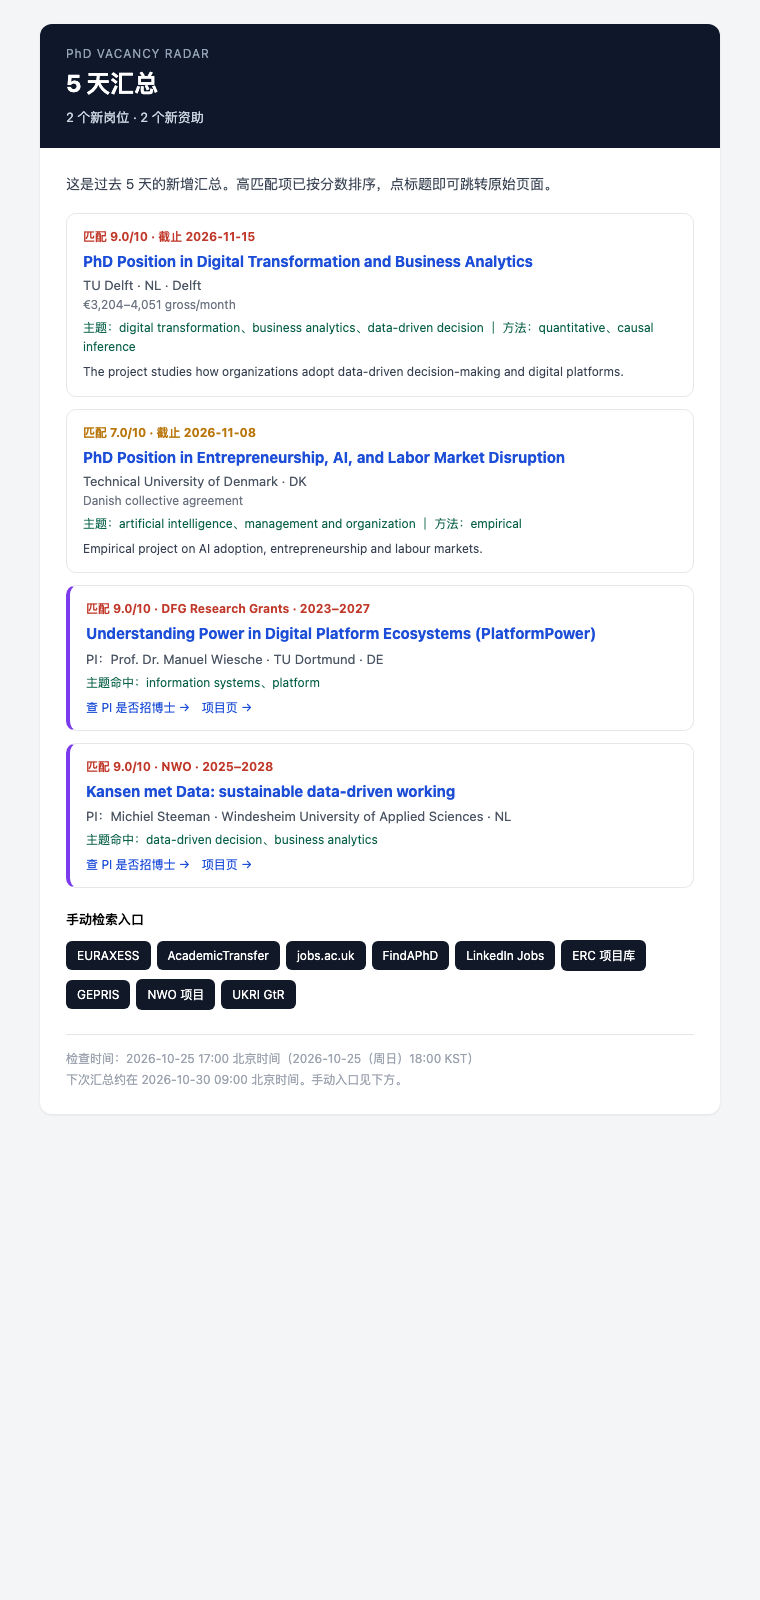
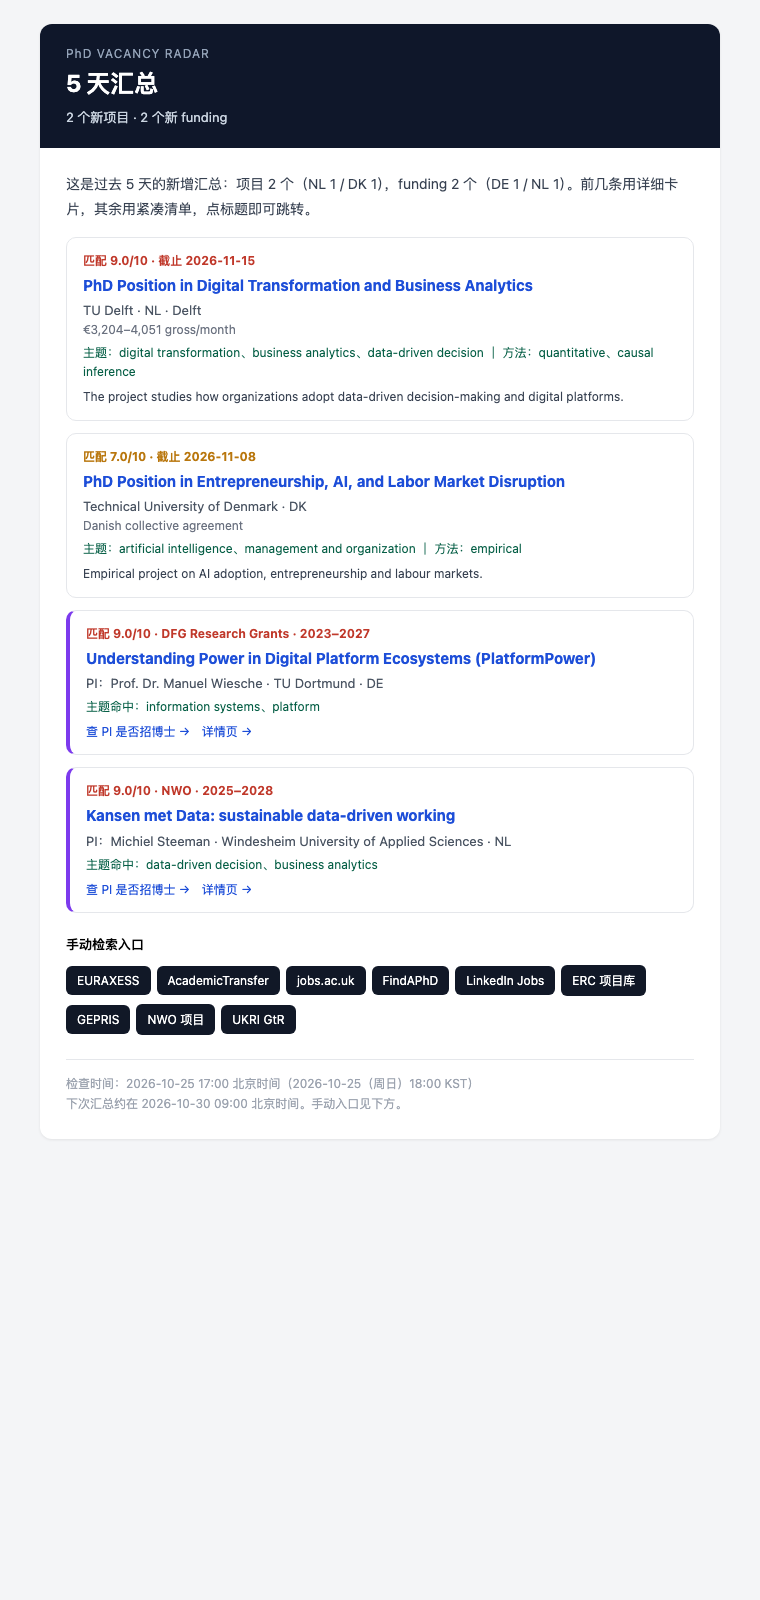
feat: full digest attachments, stop/resume/reset, clearer wording

Changed region(s): [[0.0605, 0.0938, 0.8474, 0.7188], [0.7566, 0.0938, 0.8776, 0.125], [0.2421, 0.0625, 0.2724, 0.0938]]

diff --git a/phd_radar/report.py b/phd_radar/report.py
@@ -67,7 +67,7 @@ def _pos_text(pos: Position) -> list[str]:
         f"  {pos.summary()}",
     ]
     if pos.salary:
-        lines.append(f"  资助/薪资：{pos.salary[:160]}")
+        lines.append(f"  薪资/经费：{pos.salary[:160]}")
     lines.append(f"  匹配：{_why(pos)}")
     lines.append(f"  链接：{pos.url}")
     return lines
@@ -78,7 +78,7 @@ def _award_text(award: Award) -> list[str]:
         f"- [{award.score}] {award.title}",
         f"  {award.summary_line()}",
         f"  匹配：{_award_why(award)}",
-        f"  项目页：{award.url}",
+        f"  详情页：{award.url}",
     ]
     if award.pi:
         lines.append(f"  查 PI 招聘：{_google(award.pi + ' PhD position')}")
@@ -105,29 +105,29 @@ def render_test(cfg: Config, now: datetime) -> tuple[str, str, str]:
 
 
 def render_alert(cfg: Config, positions: list[Position], awards: list[Award], now: datetime) -> tuple[str, str, str]:
-    subject = f"[PhD Radar] 发现 {len(positions) + len(awards)} 个新机会（岗位 {len(positions)} / 资助 {len(awards)}）"
-    text_lines = ["发现新的高匹配机会", ""]
+    subject = f"[PhD Radar] 发现 {len(positions) + len(awards)} 个新项目/funding（项目 {len(positions)} / funding {len(awards)}）"
+    text_lines = ["发现新的高匹配项目 / funding", ""]
     if positions:
-        text_lines.append(f"岗位（{len(positions)}）")
+        text_lines.append(f"项目（{len(positions)}）")
         for pos in positions:
             text_lines.extend(_pos_text(pos))
         text_lines.append("")
     if awards:
-        text_lines.append(f"资助项目 / PI（{len(awards)}）")
+        text_lines.append(f"funding / PI（{len(awards)}）")
         for award in awards:
             text_lines.extend(_award_text(award))
         text_lines.append("")
     text_lines.append(f"检查时间：{human_cst(now)}")
 
     html = _wrap(
-        title="发现新机会",
-        subtitle=f"岗位 {len(positions)} 个 · 资助/ PI {len(awards)} 个",
-        intro="下面这些是刚刚发现、且与你的方向匹配度较高的机会。岗位建议尽快点开确认截止日期；资助项目可以顺着 PI 去找团队主页和招聘页。",
+        title="发现新项目 / funding",
+        subtitle=f"项目 {len(positions)} 个 · funding / PI {len(awards)} 个",
+        intro="下面这些是刚刚发现、且与你的方向匹配度较高的项目 / funding。项目建议尽快点开确认截止日期；funding 可以顺着 PI 去找团队主页和招聘页。",
         positions=positions,
         awards=awards,
         state=None,
         now=now,
-        footer="本邮件由云端定时任务自动发送；看到合适的岗位请尽快申请。",
+        footer="本邮件由云端定时任务自动发送；看到合适的项目请尽快申请。",
         detail_limit=len(positions) + len(awards) + 1,
     )
     return subject, "\n".join(text_lines), html
@@ -144,39 +144,39 @@ def render_digest(
 ) -> tuple[str, str, str]:
     total = len(positions) + len(awards)
     if startup:
-        subject = f"[PhD Radar] 监控已启动（基线：{len(positions)} 个岗位 / {len(awards)} 个资助）"
+        subject = f"[PhD Radar] 监控已启动（基线：{len(positions)} 个项目 / {len(awards)} 个 funding）"
         intro = (
-            "监控已经跑起来了。我已经把当前岗位和资助项目做了基线记录；"
+            "监控已经跑起来了。我已经把当前项目和 funding 项目做了基线记录；"
             "之后只要有新项目，会立刻单独发邮件；每 5 天再发一次汇总。"
         )
     elif total == 0:
         subject = "[PhD Radar] 本期无新增（监控正常）"
-        intro = "过去 5 天没有发现新的匹配岗位或资助项目。监控仍在正常运行。"
+        intro = "过去 5 天没有发现新的匹配项目或 funding。监控仍在正常运行。"
     else:
-        subject = f"[PhD Radar] 5 天汇总：{len(positions)} 个新岗位，{len(awards)} 个新资助"
+        subject = f"[PhD Radar] 5 天汇总：{len(positions)} 个新项目，{len(awards)} 个新 funding"
         intro = (
-            f"这是过去 5 天的新增汇总：岗位 {len(positions)} 个（{_country_breakdown(positions)}），"
-            f"资助 {len(awards)} 个（{_country_breakdown(awards)}）。"
+            f"这是过去 5 天的新增汇总：项目 {len(positions)} 个（{_country_breakdown(positions)}），"
+            f"funding {len(awards)} 个（{_country_breakdown(awards)}）。"
             "前几条用详细卡片，其余用紧凑清单，点标题即可跳转。"
         )
 
     detail = cfg.monitor.digest_detail_items
     text_lines = [subject, "", intro, ""]
     if positions:
-        text_lines.append(f"新岗位（{len(positions)}）")
+        text_lines.append(f"新项目（{len(positions)}）")
         for pos in positions[:detail]:
             text_lines.extend(_pos_text(pos))
         if len(positions) > detail:
-            text_lines.append(f"其余 {len(positions) - detail} 个岗位（紧凑列表）：")
+            text_lines.append(f"其余 {len(positions) - detail} 个项目（紧凑列表）：")
             for pos in positions[detail:]:
                 text_lines.append(f"- [{pos.score}] {pos.title}｜{pos.institution} · {pos.country}｜{pos.url}")
         text_lines.append("")
     if awards:
-        text_lines.append(f"新资助 / PI（{len(awards)}）")
+        text_lines.append(f"新 funding / PI（{len(awards)}）")
         for award in awards[:detail]:
             text_lines.extend(_award_text(award))
         if len(awards) > detail:
-            text_lines.append(f"其余 {len(awards) - detail} 个资助项目（紧凑列表）：")
+            text_lines.append(f"其余 {len(awards) - detail} 个 funding（紧凑列表）：")
             for award in awards[detail:]:
                 text_lines.append(
                     f"- [{award.score}] {award.title}｜{award.pi or 'PI 未列'} · {award.institution} · {award.country}｜{award.url}"
@@ -205,7 +205,7 @@ def render_digest(
 
     html = _wrap(
         title="5 天汇总" if not startup else "监控已启动",
-        subtitle=f"{len(positions)} 个新岗位 · {len(awards)} 个新资助",
+        subtitle=f"{len(positions)} 个新项目 · {len(awards)} 个新 funding",
         intro=intro,
         positions=positions,
         awards=awards,
@@ -332,7 +332,7 @@ def _compact_positions(positions: list[Position]) -> str:
         for pos in positions
     )
     return (
-        f'<div style="margin:18px 0 6px;font-size:13px;font-weight:700">其余新增岗位（{len(positions)}）</div>'
+        f'<div style="margin:18px 0 6px;font-size:13px;font-weight:700">其余新增项目（{len(positions)}）</div>'
         f'<div style="border-top:1px solid #e5e7eb">{rows}</div>'
     )
 
@@ -349,7 +349,7 @@ def _compact_awards(awards: list[Award]) -> str:
         for award in awards
     )
     return (
-        f'<div style="margin:18px 0 6px;font-size:13px;font-weight:700">其余新资助项目（{len(awards)}）</div>'
+        f'<div style="margin:18px 0 6px;font-size:13px;font-weight:700">其余新 funding（{len(awards)}）</div>'
         f'<div style="border-top:1px solid #e5e7eb">{rows}</div>'
     )
 
@@ -357,7 +357,7 @@ def _compact_awards(awards: list[Award]) -> str:
 def _pos_card(pos: Position) -> str:
     color = _score_color(pos.score)
     deadline = f"截止 {pos.deadline:%Y-%m-%d}" if pos.deadline else ""
-    salary = pos.salary[:120] if pos.salary else "薪资/资助见原页面"
+    salary = pos.salary[:120] if pos.salary else "薪资/经费见原页面"
     return (
         '<div style="border:1px solid #e5e7eb;border-radius:10px;padding:14px 16px;margin:12px 0">'
         f'<div style="font-size:12px;color:{color};font-weight:700;margin-bottom:5px">匹配 {pos.score}/10 · {_e(deadline)}</div>'
@@ -383,7 +383,7 @@ def _award_card(award: Award) -> str:
             'text-decoration:none;margin-right:12px">查 PI 是否招博士 →</a>'
         )
     links += (
-        f'<a href="{_e(award.url)}" style="color:#1d4ed8;font-size:12px;text-decoration:none">项目页 →</a>'
+        f'<a href="{_e(award.url)}" style="color:#1d4ed8;font-size:12px;text-decoration:none">详情页 →</a>'
     )
     return (
         '<div style="border:1px solid #e5e7eb;border-left:4px solid #7c3aed;border-radius:10px;padding:14px 16px;margin:12px 0">'
@@ -400,8 +400,8 @@ def _award_card(award: Award) -> str:
 # 汇总附件：CSV / HTML 完整清单
 # ---------------------------------------------------------------------------
 CSV_HEADER = [
-    "类型", "匹配分", "标题", "机构", "国家", "城市", "PI", "项目/资助",
-    "截止日期", "发布日期", "薪资/资助", "主题", "方法", "链接", "摘要",
+    "类型", "匹配分", "标题", "机构", "国家", "城市", "PI", "来源/计划",
+    "截止日期", "发布日期", "薪资/经费", "主题", "方法", "链接", "摘要",
 ]
 
 
@@ -411,7 +411,7 @@ def build_csv(positions: list[Position], awards: list[Award]) -> bytes:
     writer.writerow(CSV_HEADER)
     for pos in positions:
         writer.writerow([
-            "岗位", pos.score, pos.title, pos.institution, pos.country, pos.city, "",
+            "项目", pos.score, pos.title, pos.institution, pos.country, pos.city, "",
             pos.source, pos.deadline.strftime("%Y-%m-%d") if pos.deadline else "",
             pos.published.strftime("%Y-%m-%d") if pos.published else "", pos.salary,
             " / ".join(pos.topics), " / ".join(pos.methods), pos.url,
@@ -419,7 +419,7 @@ def build_csv(positions: list[Position], awards: list[Award]) -> bytes:
         ])
     for award in awards:
         writer.writerow([
-            "资助", award.score, award.title, award.institution, award.country, "",
+            "funding", award.score, award.title, award.institution, award.country, "",
             award.pi, award.programme, "", "",
             f"{award.start_year or ''}-{award.end_year or ''}".strip("-"),
             " / ".join(award.topics), "", award.url, (award.summary or "")[:300],
@@ -432,7 +432,7 @@ def build_full_html(positions: list[Position], awards: list[Award], now: datetim
     for pos in positions:
         rows.append(
             "<tr>"
-            f"<td>岗位</td><td>{pos.score}</td>"
+            f"<td>项目</td><td>{pos.score}</td>"
             f'<td><a href="{_e(pos.url)}">{_e(pos.title)}</a></td>'
             f"<td>{_e(pos.institution)}</td><td>{_e(pos.country)}</td>"
             f"<td>{_e(pos.deadline.strftime('%Y-%m-%d') if pos.deadline else '')}</td>"
@@ -442,7 +442,7 @@ def build_full_html(positions: list[Position], awards: list[Award], now: datetim
     for award in awards:
         rows.append(
             "<tr>"
-            f"<td>资助</td><td>{award.score}</td>"
+            f"<td>funding</td><td>{award.score}</td>"
             f'<td><a href="{_e(award.url)}">{_e(award.title)}</a></td>'
             f"<td>{_e(award.institution)}</td><td>{_e(award.country)}</td>"
             f"<td>{_e(award.pi)}</td><td>{_e(award.programme)}</td>"
@@ -460,9 +460,9 @@ th,td{{border:1px solid #e5e7eb;padding:6px 8px;text-align:left;vertical-align:t
 th{{background:#f3f4f6}} a{{color:#1d4ed8;text-decoration:none}}
 </style></head><body>
 <h1>PhD Radar 完整清单</h1>
-<div class="meta">生成时间：{_e(human_cst(now))}｜岗位 {len(positions)} 个｜资助 {len(awards)} 个</div>
+<div class="meta">生成时间：{_e(human_cst(now))}｜项目 {len(positions)} 个｜funding {len(awards)} 个</div>
 <table><thead><tr>
-<th>类型</th><th>分数</th><th>标题</th><th>机构</th><th>国家</th><th>截止/PI</th><th>薪资/项目</th><th>主题</th>
+<th>类型</th><th>分数</th><th>标题</th><th>机构</th><th>国家</th><th>截止/PI</th><th>薪资/经费</th><th>主题</th>
 </tr></thead><tbody>{body}</tbody></table>
 </body></html>"""
     return html.encode("utf-8")

diff --git a/phd_radar/run.py b/phd_radar/run.py
@@ -66,6 +66,27 @@ def run(args: argparse.Namespace) -> int:
 
     if args.mode == "status":
         return _print_status(cfg)
+
+    if args.mode in {"stop", "resume", "reset"}:
+        state, _ = load_state(cfg.state_path)
+        if args.mode == "stop":
+            state.paused = True
+            save_state(cfg.state_path, state)
+            print("⏸ 已暂停：之后的 check/digest 会直接跳过，不再抓取或发信。")
+            print("   恢复：Run workflow → mode=resume，或把 state.json 的 paused 改成 false。")
+            return 0
+        if args.mode == "resume":
+            state.paused = False
+            save_state(cfg.state_path, state)
+            print("▶ 已恢复监控。")
+            return 0
+        # reset
+        fresh = State(created_at=now)
+        save_state(cfg.state_path, fresh)
+        print("♻ 状态已重置：清空已见项目/funding、告警记录与计时。")
+        print("   下一次 check 会重新建立基线，并发送「监控已启动」。")
+        return 0
+
     if args.mode == "test-email":
         subject, text, html = render_test(cfg, now)
         if args.dry_run:
@@ -83,6 +104,11 @@ def run(args: argparse.Namespace) -> int:
     state, is_new = load_state(cfg.state_path)
     if is_new:
         state.created_at = now
+
+    if state.paused:
+        log.info("monitor paused (state.paused=true); skip this run")
+        print("⏸ 监控处于暂停状态，本次跳过。恢复请运行 mode=resume。")
+        return 0
 
     log.info("run mode=%s dry_run=%s new_state=%s", args.mode, args.dry_run, is_new)
     batch = collect(cfg)
@@ -156,7 +182,7 @@ def run(args: argparse.Namespace) -> int:
         _save(cfg, state, now, force=True, persist=not args.dry_run)
         return 0
 
-    # 立即告警：新岗位/新资助达到阈值
+    # 立即告警：新项目 / 新 funding 达到阈值
     alert_positions = [p for p in new_positions if p.score >= cfg.monitor.alert_score][: cfg.monitor.max_items_per_email]
     alert_awards = [a for a in new_awards if a.score >= cfg.monitor.award_alert_score][: cfg.monitor.max_items_per_email]
 
@@ -253,19 +279,20 @@ def _print_status(cfg: Config) -> int:
     print(f"上次检查: {human_cst(state.last_check_at)}")
     print(f"上次成功: {human_cst(state.last_success_at)}")
     print(f"上次汇总: {human_cst(state.last_digest_at)}")
-    print(f"已见岗位: {len(state.seen_positions)}，已见资助: {len(state.seen_awards)}")
+    print(f"已见项目: {len(state.seen_positions)}，已见 funding: {len(state.seen_awards)}")
+    print(f"运行状态: {'⏸ 已暂停' if state.paused else '▶ 正常'}")
     print(f"累计: {state.stats.get('runs', 0)} 次检查 / {state.stats.get('alerts', 0)} 次告警")
     return 0
 
 
 def build_parser() -> argparse.ArgumentParser:
-    parser = argparse.ArgumentParser(prog="phd-radar", description="岗位制 PhD / 资助项目雷达")
+    parser = argparse.ArgumentParser(prog="phd-radar", description="博士项目 / funding 雷达")
     parser.add_argument(
         "mode",
         nargs="?",
         default="check",
-        choices=["check", "digest", "test-email", "status"],
-        help="check=检查并发送；digest=强制 5 天汇总；test-email=测试邮件；status=查看状态",
+        choices=["check", "digest", "test-email", "status", "stop", "resume", "reset"],
+        help="check=检查；digest=强制汇总；test-email=测试邮件；status=状态；stop=暂停；resume=恢复；reset=重置状态",
     )
     parser.add_argument("--config", default="config.toml")
     parser.add_argument("--dry-run", action="store_true")

diff --git a/tests/test_run.py b/tests/test_run.py
@@ -88,9 +88,39 @@ class RunFlowTests(unittest.TestCase):
         self._run([make_position("p1")])
         code, subjects = self._run([make_position("p1"), make_position("p2")])
         self.assertEqual(code, 0)
-        self.assertTrue(any("新机会" in s for s in subjects), subjects)
+        self.assertTrue(any("新项目" in s for s in subjects), subjects)
         state = json.loads(self.state_path.read_text(encoding="utf-8"))
         self.assertIn("p2", state["alerted"])
+
+    def test_stop_pauses_and_resume(self):
+        self._run([make_position("p1")])
+        self.args.mode = "stop"
+        with mock.patch("phd_radar.run.collect", side_effect=AssertionError("should not collect")):
+            code = run(self.args)
+        self.assertEqual(code, 0)
+        state, _ = load_state(self.state_path)
+        self.assertTrue(state.paused)
+
+        self.args.mode = "check"
+        with mock.patch("phd_radar.run.collect", side_effect=AssertionError("should not collect")):
+            code = run(self.args)
+        self.assertEqual(code, 0)
+
+        self.args.mode = "resume"
+        code = run(self.args)
+        self.assertEqual(code, 0)
+        state, _ = load_state(self.state_path)
+        self.assertFalse(state.paused)
+
+    def test_reset_clears_state(self):
+        self._run([make_position("p1")])
+        self.args.mode = "reset"
+        code = run(self.args)
+        self.assertEqual(code, 0)
+        state, _ = load_state(self.state_path)
+        self.assertEqual(state.seen_positions, {})
+        self.assertFalse(state.first_run_done)
+        self.assertFalse(state.paused)
 
     def test_digest_after_five_days(self):
         self._run([make_position("p1")])

diff --git a/phd_radar/state.py b/phd_radar/state.py
@@ -27,6 +27,7 @@ class State:
     seen_awards: dict[str, str] = field(default_factory=dict)
     alerted: dict[str, str] = field(default_factory=dict)
     first_run_done: bool = False
+    paused: bool = False
     last_snapshot: dict[str, Any] = field(default_factory=dict)
 
     def remember(self, kind: str, key: str, when: datetime) -> bool:
@@ -67,6 +68,7 @@ class State:
             "seen_awards": self.seen_awards,
             "alerted": self.alerted,
             "first_run_done": self.first_run_done,
+            "paused": self.paused,
             "last_snapshot": self.last_snapshot,
         }
 
@@ -85,6 +87,7 @@ class State:
         state.seen_awards = dict(raw.get("seen_awards") or {})
         state.alerted = dict(raw.get("alerted") or {})
         state.first_run_done = bool(raw.get("first_run_done", False))
+        state.paused = bool(raw.get("paused", False))
         state.last_snapshot = dict(raw.get("last_snapshot") or {})
         return state
 

diff --git a/tests/test_attachments.py b/tests/test_attachments.py
@@ -35,8 +35,8 @@ class AttachmentTests(unittest.TestCase):
         rows = list(csv.reader(io.StringIO(data.decode("utf-8-sig"))))
         self.assertEqual(rows[0][0], "类型")
         self.assertEqual(len(rows), 3)
-        self.assertEqual(rows[1][0], "岗位")
-        self.assertEqual(rows[2][0], "资助")
+        self.assertEqual(rows[1][0], "项目")
+        self.assertEqual(rows[2][0], "funding")
 
     def test_both_attachments(self):
         cfg = load_config("config.toml")
